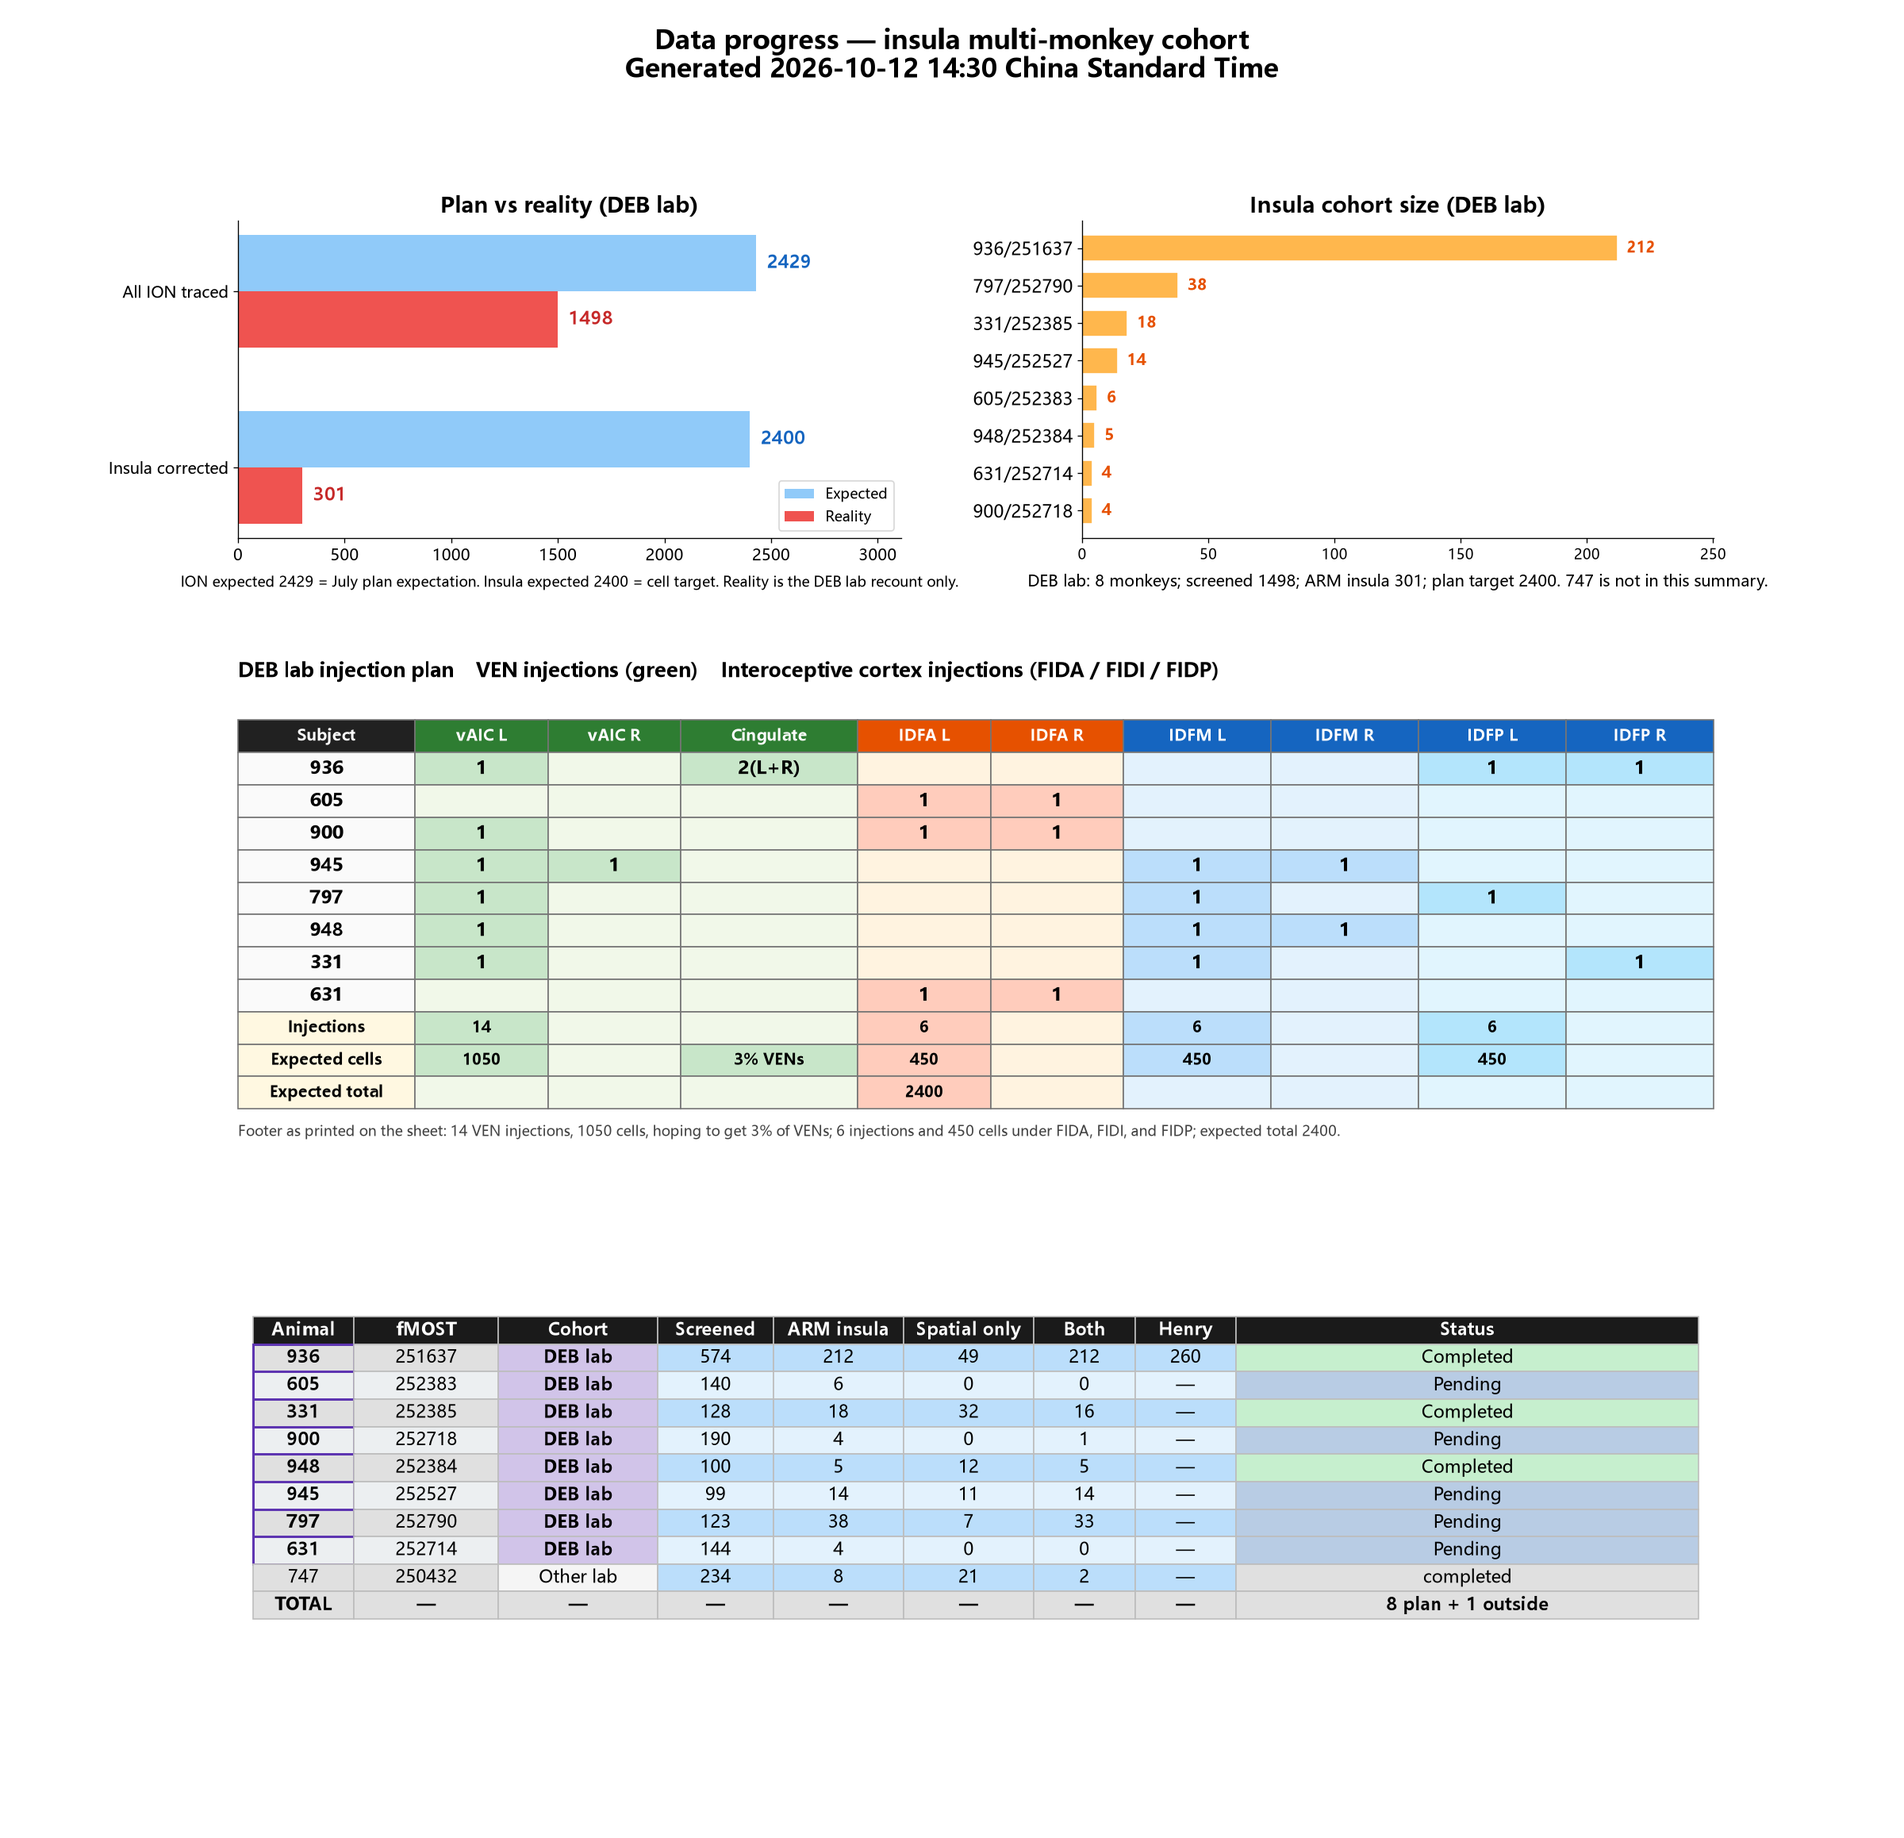
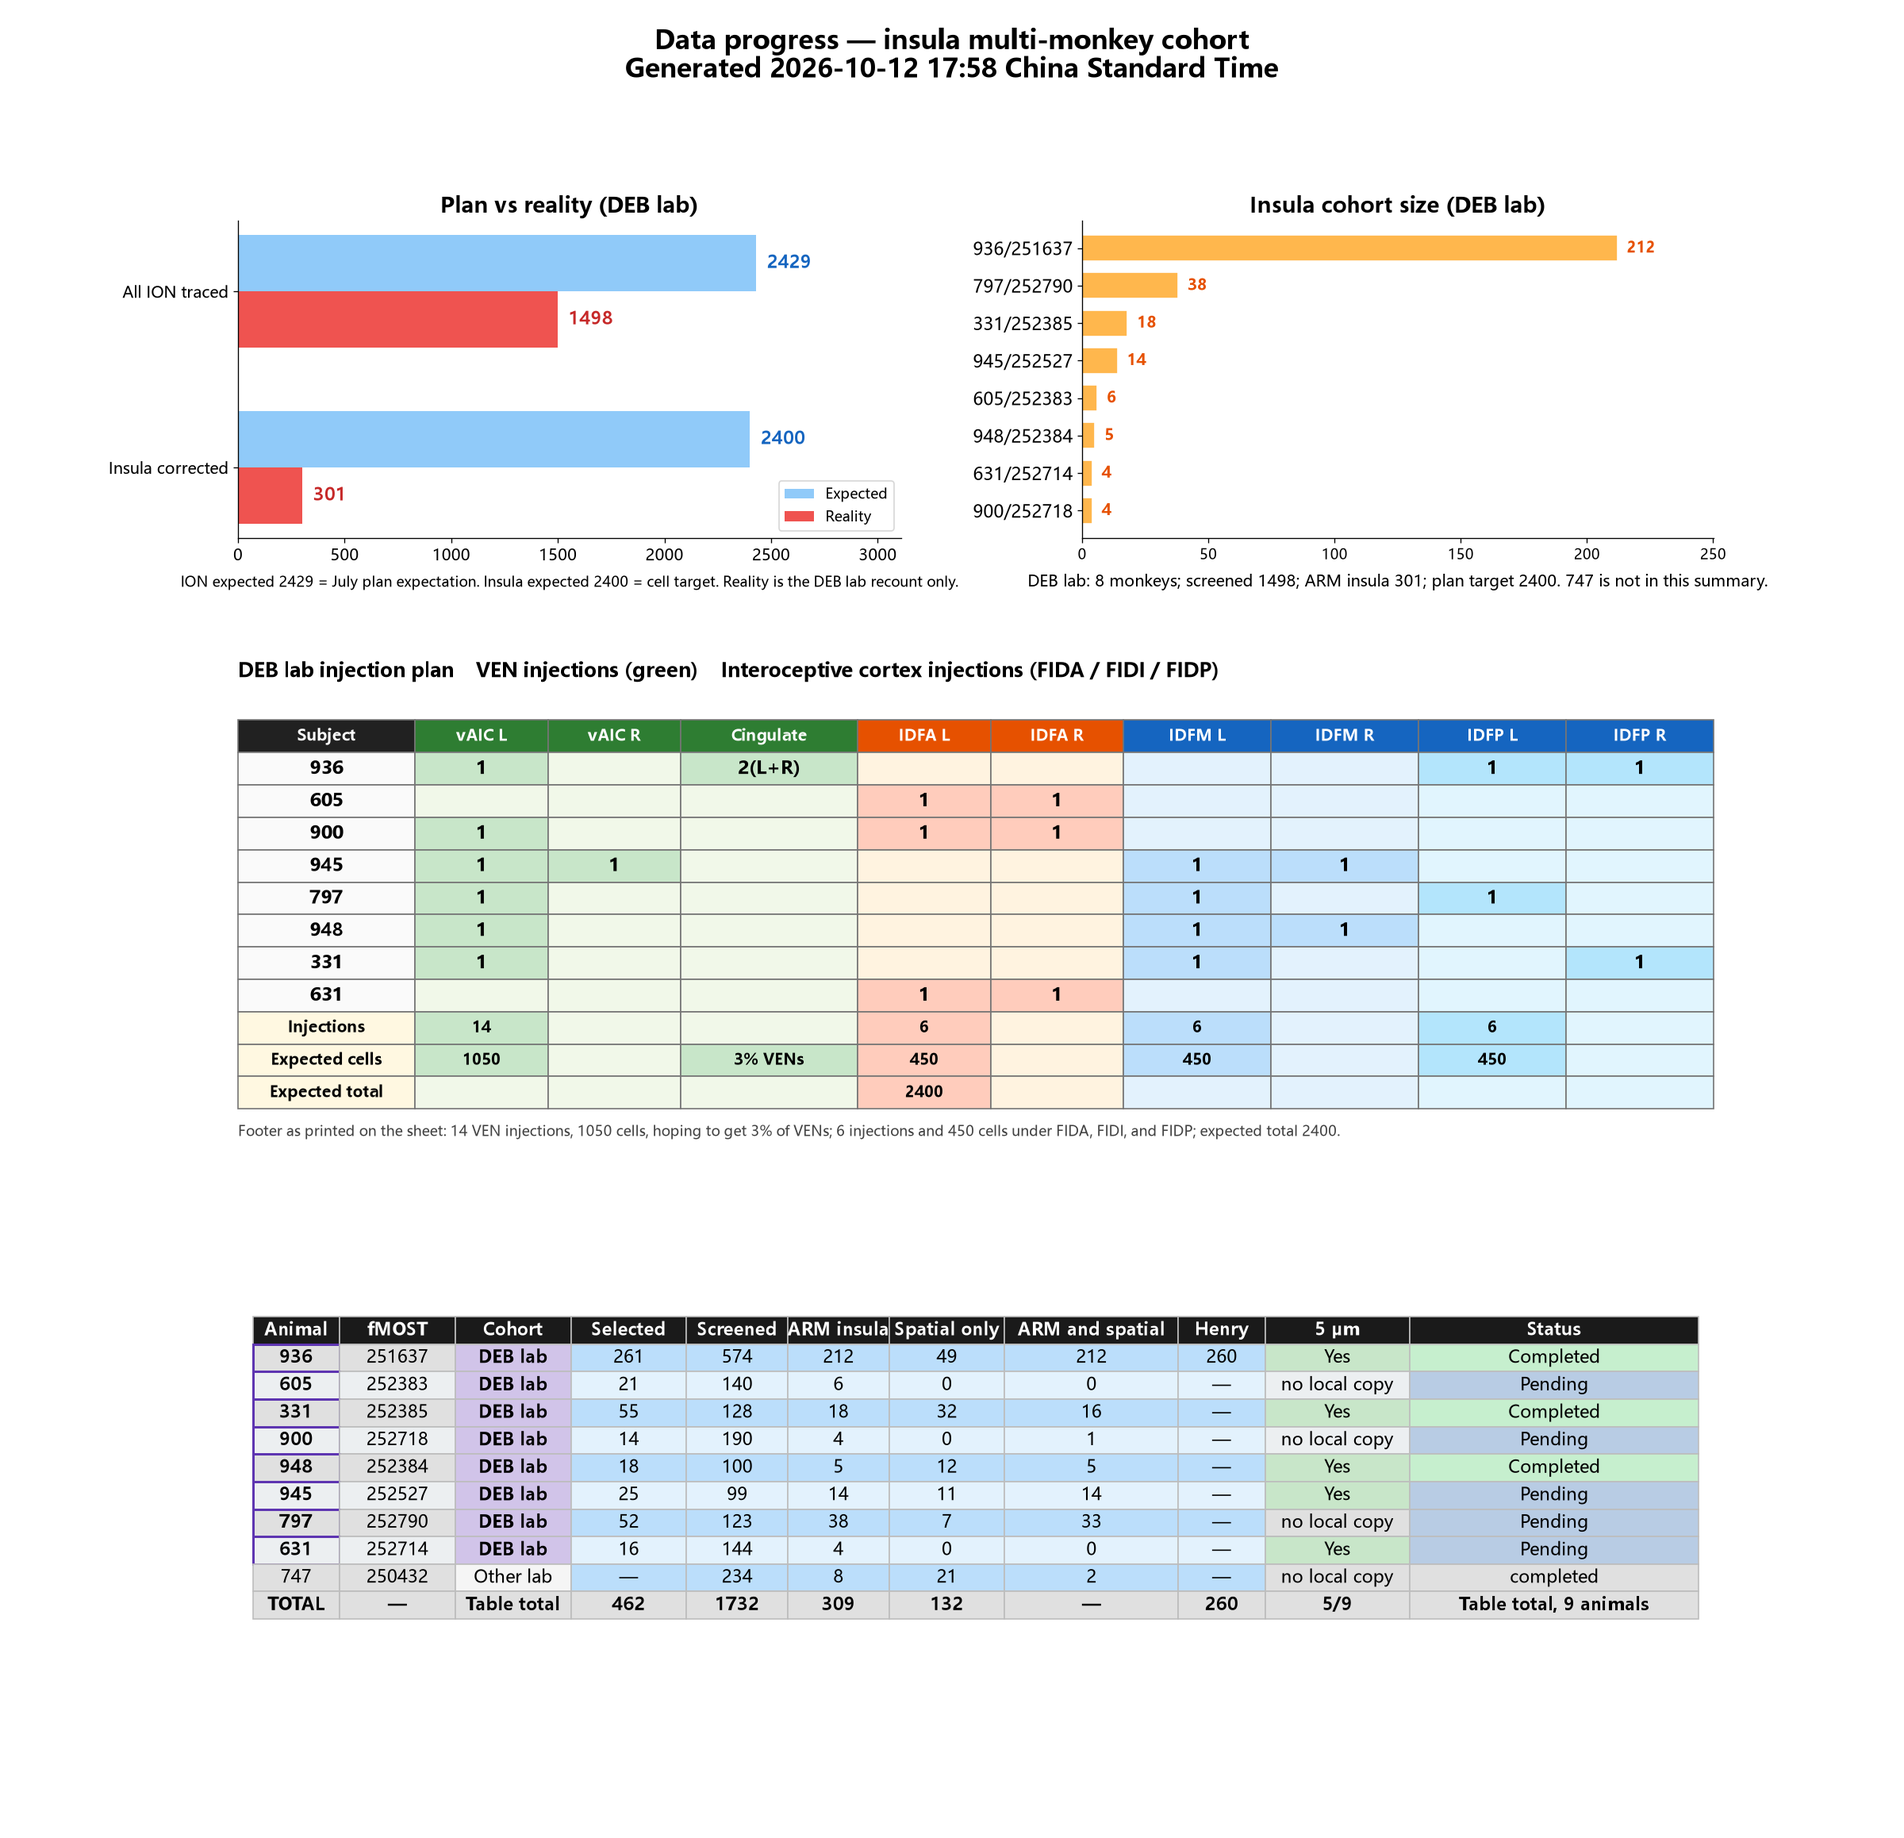
Show the 462 selection and 5 µm copy status on the progress overview.

Changed region(s): [[0.125, 0.715, 0.4062, 0.9016], [0.4688, 0.715, 0.8438, 0.9016], [0.5625, 0.8083, 0.5938, 0.8394]]

diff --git a/group_analysis/data_progress/track.py b/group_analysis/data_progress/track.py
@@ -2,6 +2,7 @@ from __future__ import annotations
 
 import argparse
 import json
+import re
 from datetime import datetime
 from pathlib import Path
 
@@ -15,6 +16,7 @@ from .plot import _PLAN_BODY, plot_progress_table
 from .sheet_overview import LEGACY_EIGHT
 from .table import append_total_row, build_progress_table
 
+FIVE_UM_ROOT = Path(r"X:\fMOST\5micron_datasets")
 WORKBOOK = DOCS / "monkey_experiment_data_summary.xlsx"
 INSULA_SUMMARY = GROUP / "evolution_20261008" / "insula_summary_20261012" / "per_animal_insula_summary.csv"
 COUNT_COLUMNS = [
@@ -69,6 +71,7 @@ def _attach_checked_counts(progress: pd.DataFrame, analysis: dict) -> pd.DataFra
         hit = index.get(key)
         for column in COUNT_COLUMNS:
             record[column] = "" if hit is None else str(hit.get(column, ""))
+        record["selected_n"] = "" if hit is None else str(hit.get("selected_n") or "")
         in_eight = bool(hit) and str(hit.get("insula_8_cohort", "")) == "DEB lab"
         record["insula_8_cohort"] = "DEB lab" if in_eight else "Other lab"
         record["cohort_bar_n"] = str(hit.get("ARM_insula_n", "")) if in_eight else ""
@@ -131,6 +134,37 @@ def _keep_insula_animals(progress: pd.DataFrame) -> tuple[pd.DataFrame, list[dic
     if not kept:
         raise ValueError("Insula filter removed every animal")
     return pd.DataFrame(kept), dropped
+
+
+def _match_five_um(progress: pd.DataFrame) -> tuple[pd.DataFrame, dict]:
+    """Yes only when a folder for that fMOST sample is in the 5 µm directory."""
+    out = progress.copy()
+    meta = {"root": str(FIVE_UM_ROOT), "readable": False, "folders": []}
+    try:
+        if not FIVE_UM_ROOT.is_dir():
+            raise FileNotFoundError(str(FIVE_UM_ROOT))
+        folders = sorted(path.name for path in FIVE_UM_ROOT.iterdir() if path.is_dir())
+    except OSError as exc:
+        out["five_um_local"] = "unreadable"
+        out["five_um_folder"] = ""
+        meta["error"] = str(exc)
+        return out, meta
+    meta["readable"] = True
+    meta["folders"] = folders
+    by_sample: dict[str, str] = {}
+    for name in folders:
+        for token in re.findall(r"\d{6}", name):
+            if token in by_sample and by_sample[token] != name:
+                raise ValueError(f"Sample {token} is in two 5 µm folders: {by_sample[token]} and {name}")
+            by_sample[token] = name
+    labels, names = [], []
+    for sample in out["fmost_id"].astype(str):
+        folder = by_sample.get(sample, "")
+        labels.append("Yes" if folder else "no local copy")
+        names.append(folder)
+    out["five_um_local"] = labels
+    out["five_um_folder"] = names
+    return out, meta
 
 
 def _require_eight(frame: pd.DataFrame, label: str) -> None:
@@ -269,6 +303,7 @@ def write_progress_overview(
         (progress["monkey_id"].astype(str) == "747") & (progress["fmost_id"].astype(str) == "250432")
     ).any():
         raise ValueError("Insula filter dropped 747/250432")
+    progress, five_um_meta = _match_five_um(progress)
 
     july = pd.read_csv(JULY_PROGRESS, dtype=str, keep_default_na=False)
     july_total = july.loc[july["monkey_id"] == "TOTAL"].iloc[0]
@@ -307,14 +342,26 @@ def write_progress_overview(
                 "source": "Monkey Data workbook",
             })
     display = append_total_row(progress, plan_totals)
-    extras = progress[progress.get("in_legacy_eight", pd.Series("yes", index=progress.index)).astype(str) == "no"]
-    if len(extras):
-        total_at = display.index[display["monkey_id"] == "TOTAL"][0]
-        display.loc[total_at, "data_status"] = f"8 plan + {len(extras)} outside"
-        display.loc[total_at, "notes"] = (
-            str(display.loc[total_at, "notes"])
-            + f"; {len(extras)} animals outside the DEB lab eight remain after dropping rows with no insula neuron"
-        )
+    total_at = display.index[display["monkey_id"] == "TOTAL"][0]
+    yes_n = int((progress["five_um_local"] == "Yes").sum())
+    display.loc[total_at, "five_um_local"] = f"{yes_n}/{len(progress)}"
+    display.loc[total_at, "five_um_folder"] = ""
+    # Table total is the sum of the rows on this sheet, including Other lab 747.
+    # The DEB lab bars stay on the eight only and are not rewritten here.
+    for column in ("selected_n", *COUNT_COLUMNS):
+        # both_n is the ARM-and-spatial intersection and is already inside ARM_insula_n.
+        if column == "both_n":
+            display.loc[total_at, column] = "—"
+            continue
+        display.loc[total_at, column] = str(int(pd.to_numeric(progress[column], errors="coerce").fillna(0).sum()))
+    display.loc[total_at, "insula_8_cohort"] = "Table total"
+    display.loc[total_at, "data_status"] = f"Table total, {len(progress)} animals"
+    display.loc[total_at, "notes"] = (
+        f"Selected is the 462-neuron ledger. 747 is not in that ledger and is not added to Selected. "
+        "ARM and spatial is the intersection already inside ARM insula and is not added again. "
+        "DEB lab summary is separate: 8 monkeys, screened "
+        f"{int(plan_totals['ion_traced'])}, ARM insula {int(plan_totals['insula_corrected'])}, plan target 2400."
+    )
 
     sheet_meta = totals.get("online_sheet") or {"fetch": "offline", "fetch_error": "", "snapshot": ""}
     source_label = sheet_meta.get("fetch") or "offline"

diff --git a/group_analysis/data_progress/plot.py b/group_analysis/data_progress/plot.py
@@ -47,11 +47,13 @@ OVERVIEW_COLS = [
     ("monkey_id", "Animal", "meta"),
     ("fmost_id", "fMOST", "meta"),
     ("insula_8_cohort", "Cohort", "meta"),
+    ("selected_n", "Selected", "counts"),
     ("neurons_screened", "Screened", "counts"),
     ("ARM_insula_n", "ARM insula", "counts"),
     ("spatial_only_n", "Spatial only", "counts"),
-    ("both_n", "Both", "counts"),
+    ("both_n", "ARM and spatial", "counts"),
     ("Henry_coarse_INS_n", "Henry", "counts"),
+    ("five_um_local", "5 µm", "meta"),
     ("data_status", "Status", "meta"),
 ]
 
@@ -356,7 +358,7 @@ def plot_progress_table(display: pd.DataFrame, totals: dict, out: Path | None = 
             shown.append(_cohort_mark(record[key]) if key == "insula_8_cohort" else _fmt(record[key]))
         rows.append(shown)
     if columns is OVERVIEW_COLS:
-        widths = [0.07, 0.10, 0.11, 0.08, 0.09, 0.09, 0.07, 0.07, 0.32]
+        widths = [0.06, 0.08, 0.08, 0.08, 0.07, 0.07, 0.08, 0.12, 0.06, 0.10, 0.20]
     else:
         widths = [0.06, 0.07, 0.08, 0.05, 0.05, 0.06, 0.32, 0.06, 0.08]
 
@@ -374,6 +376,7 @@ def plot_progress_table(display: pd.DataFrame, totals: dict, out: Path | None = 
     dist_i = header_index.get("Insula distribution")
     ins_i = header_index.get("Ins QC")
     status_i = header_index.get("Status")
+    five_i = header_index.get("5 µm")
     cohort_i = header_index.get("Cohort")
     animal_i = header_index.get("Animal", header_index.get("Monkey"))
 
@@ -402,6 +405,10 @@ def plot_progress_table(display: pd.DataFrame, totals: dict, out: Path | None = 
             cell.set_edgecolor(COHORT_EDGE)
             cell.set_linewidth(1.8)
             cell.set_text_props(fontsize=13, fontweight="bold")
+        elif five_i is not None and col == five_i and not is_total:
+            if str(data.get("five_um_local", "")).strip() == "Yes":
+                cell.set_facecolor("#C8E6C9")
+            cell.set_text_props(fontsize=13)
         elif status_i is not None and col == status_i and not is_total:
             paint = _status_bg(data["data_status"])
             if paint:

diff --git a/group_analysis/evolution_20261008/insula_summary_20261012/analysis_table.py b/group_analysis/evolution_20261008/insula_summary_20261012/analysis_table.py
@@ -55,6 +55,15 @@ def load_analysis_neuron_table() -> dict:
     if len(ledger) != 462:
         raise ValueError(f"Analysis ledger has {len(ledger)} rows, expected 462")
     eight_pairs = {(animal, sample) for animal, sample in EIGHT.items()}
+    selected_by_pair: dict[tuple[str, str], int] = {}
+    arm_or_henry = 0
+    for neuron in ledger:
+        pair = (str(neuron.get("AnimalID", "")).strip(), str(neuron.get("SampleID", "")).strip())
+        selected_by_pair[pair] = selected_by_pair.get(pair, 0) + 1
+        arm_hit = str(neuron.get("atlas_INS", "")).strip().lower() in {"true", "1", "yes"}
+        henry_hit = str(neuron.get("Henry_coarse_INS_visual_evidence", "")).strip().lower() in {"true", "1", "yes"}
+        if arm_hit or henry_hit:
+            arm_or_henry += 1
     screened = 0
     arm = 0
     rows = []
@@ -64,6 +73,8 @@ def load_analysis_neuron_table() -> dict:
         in_eight = (animal, sample) in eight_pairs and str(record.get("channel_variant", "")) != "yes"
         copied = dict(record)
         copied["insula_8_cohort"] = "DEB lab" if in_eight else "Other lab"
+        # Selected count is ledger membership. 747 is not in the 462, so this stays blank.
+        copied["selected_n"] = str(selected_by_pair[(animal, sample)]) if (animal, sample) in selected_by_pair else ""
         if in_eight:
             screened += int(copied["neurons_screened"])
             arm += int(copied["ARM_insula_n"])
@@ -78,4 +89,6 @@ def load_analysis_neuron_table() -> dict:
         "rows": rows,
         "eight_screened": screened,
         "eight_arm_insula": arm,
+        "eight_selected": sum(selected_by_pair.values()),
+        "arm_or_henry_n": arm_or_henry,
     }

diff --git a/docs/project_note.md b/docs/project_note.md
@@ -1,3 +1,55 @@
+## 2026-10-15 | Agent Cursor | Analysis selection remains the verified 462
+
+**Agent: Cursor | Date: 2026-10-15 (Asia/Shanghai)**
+
+The current analysis selection is 462 unique `SampleID::NeuronID`, DEB lab eight only. Dataset 250432 / animal 747 is outside it. The list was verified on 2026-10-12 and rechecked later. The 12 October screen did not replace this selection.
+
+| Animal | Dataset | Selected |
+|---|---|---:|
+| 936 | 251637 | 261 |
+| 331 | 252385 | 55 |
+| 797 | 252790 | 52 |
+| 945 | 252527 | 25 |
+| 605 | 252383 | 21 |
+| 948 | 252384 | 18 |
+| 631 | 252714 | 16 |
+| 900 | 252718 | 14 |
+| Total | | 462 |
+
+Composition: 436 main (260 Henry coarse INS, 89 atlas-only INS, 63 folded candidates, 24 G) plus 26 preview (15 OriginCandidate, 11 NearINS). July 353 all retained. September 420 keeps 412; the 8 left out are 250432 neurons 116, 117, 123, 126, 128, 131, 184, and 188. Inside the 462: ARM insula 301, Henry 260, ARM or Henry 349, other candidates 113.
+
+Ledger: [neuron_summary.csv](../notes/region_analysis_review_20261009/hierarchy_tables_20261009/combined_arm_projection_tables_462/neuron_summary.csv). Defining note: [evolution_status_20261009.md](../group_analysis/evolution_20261008/reports/evolution_status_20261009.md), commit `6baef3dd`. This record does not edit the ledger and is not anatomical acceptance.
+
+## 2026-10-12 | Agent Cursor | Pipeline layout after the Codex evolution
+
+**Agent: Cursor | Date: 2026-10-12 (Asia/Shanghai)**
+
+Branch `codex/insula-pipeline-evolution-20261008` at `07120438`, base `78008cb`. Codex edited the old step pipeline in place (69 files, `git diff -w` on the R primary script is 51 insertions and 35 deletions) and added 24 drivers under `group_analysis/scripts/` plus 11 modules in `main_scripts/`. The working-tree weight is the review products: `group_analysis/visual_review_20261002/` is 353.2 GB and 83,491 files, of which `cache/` is 292.7 GB of TIFF. That folder has 0 tracked files and is absent from `.gitignore`. `main_scripts/processed_neurons/` is 3.0 GB and already ignored. Proposed layout is code in git, image products on a data path, numbered steps kept as the editable surface. No files were moved.
+
+## 2026-10-12 | Agent Cursor | Selected total is the 462 ledger
+
+**Agent: Cursor | Date: 2026-10-12 (Asia/Shanghai)**
+
+The progress table now has a Selected column from the 462-neuron ledger. The table total is 462. 747/250432 is not in that ledger, so its 234 screened neurons are not added. ARM insula stays its own column (309 on the nine rows; 301 on the DEB eight). ARM or Henry support on the 462 is 349.
+
+## 2026-10-12 | Agent Cursor | Both is the ARM and spatial intersection
+
+**Agent: Cursor | Date: 2026-10-12 (Asia/Shanghai)**
+
+The nine Both values match `both_n` in the 2026-10-12 recount. The column header is now `ARM and spatial`. The table total no longer sums that intersection on top of ARM insula. Screened stays 1732 and ARM insula stays 309.
+
+## 2026-10-12 | Agent Cursor | Progress table total matches the nine rows
+
+**Agent: Cursor | Date: 2026-10-12 (Asia/Shanghai)**
+
+The progress-table TOTAL row now sums the nine visible animals, including Other lab 747: screened 1732, ARM insula 309. It is labeled table total. The DEB lab summary stays the eight only: screened 1498, ARM insula 301, plan target 2400.
+
+## 2026-10-12 | Agent Cursor | 5 µm column from the local dataset folder
+
+**Agent: Cursor | Date: 2026-10-12 (Asia/Shanghai)**
+
+The progress overview 5 µm column is a local-copy check of `X:\fMOST\5micron_datasets`. Yes only where that folder has the sample: 251637, 252384, 252385, 252527, and 252714. The other four animals on the table have no local copy there. Absence is not proof the data are unavailable elsewhere.
+
 ## 2026-10-12 | Agent Cursor | Cohort label is Other lab
 
 **Agent: Cursor | Date: 2026-10-12 (Asia/Shanghai)**
